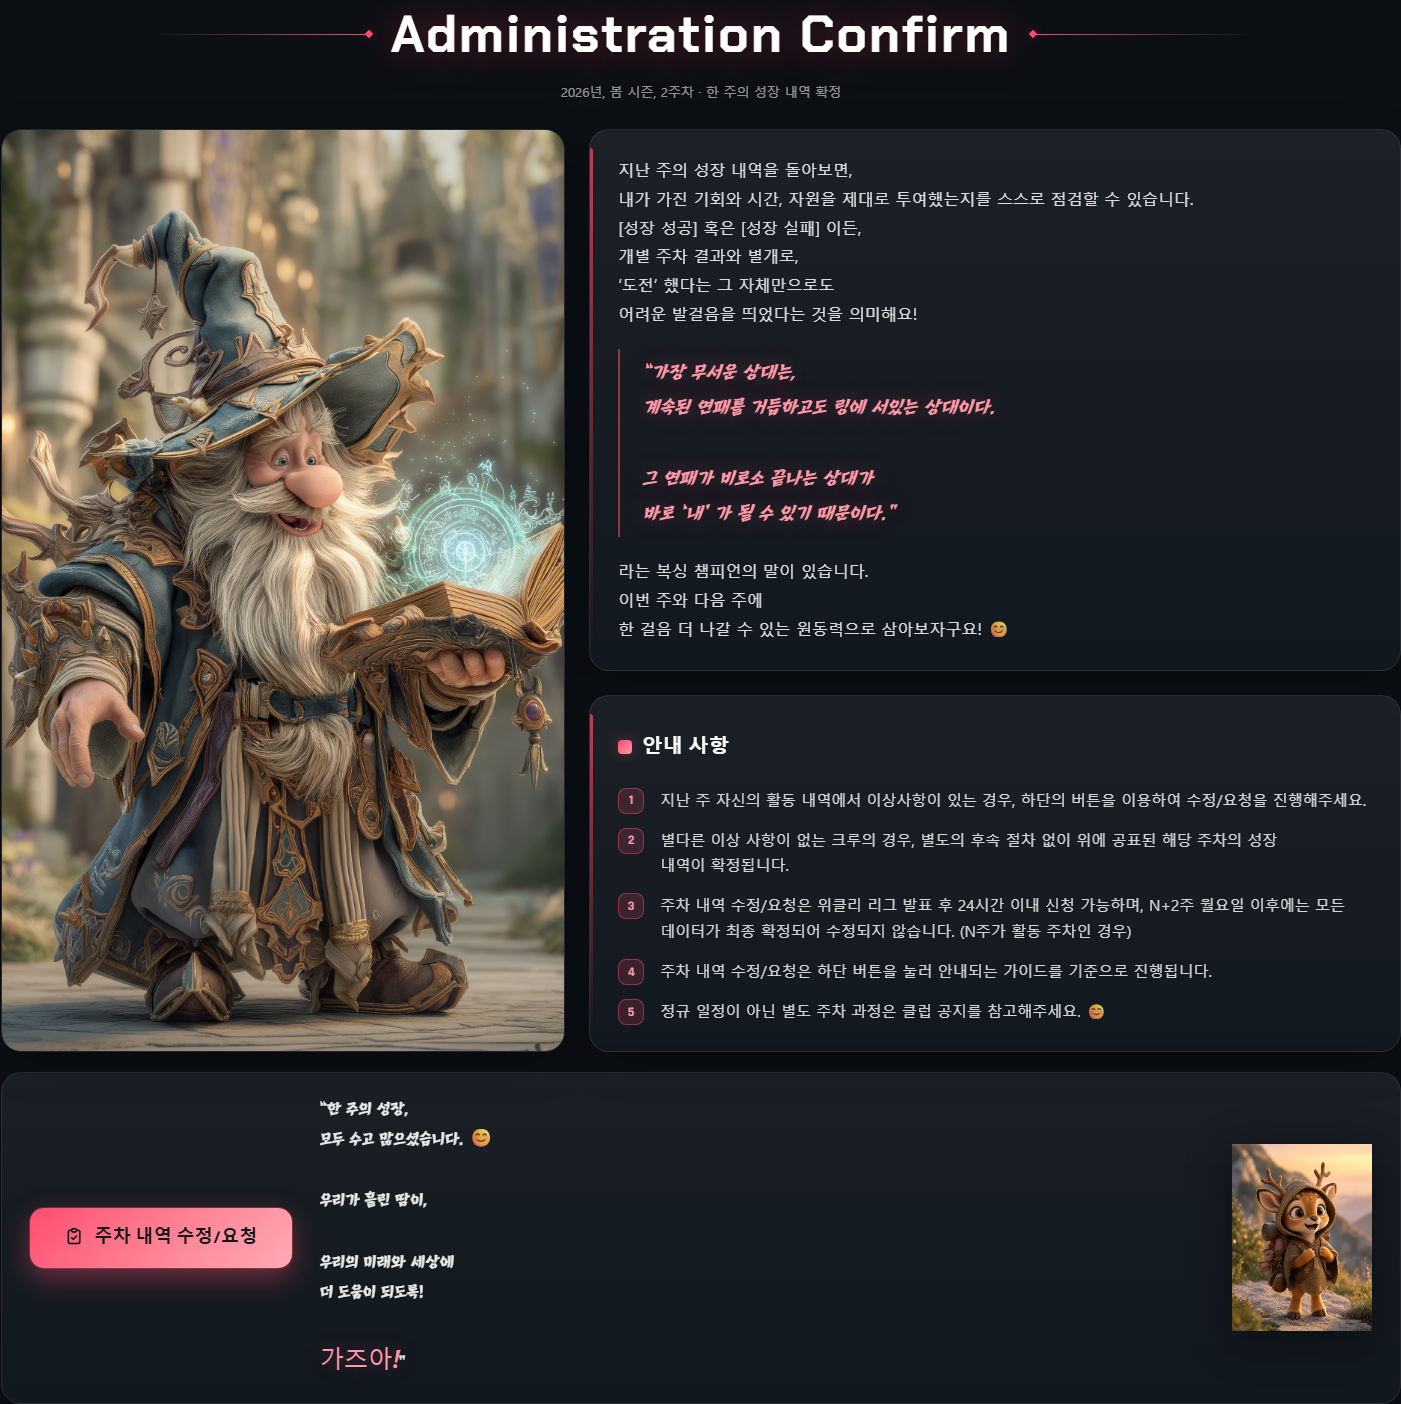
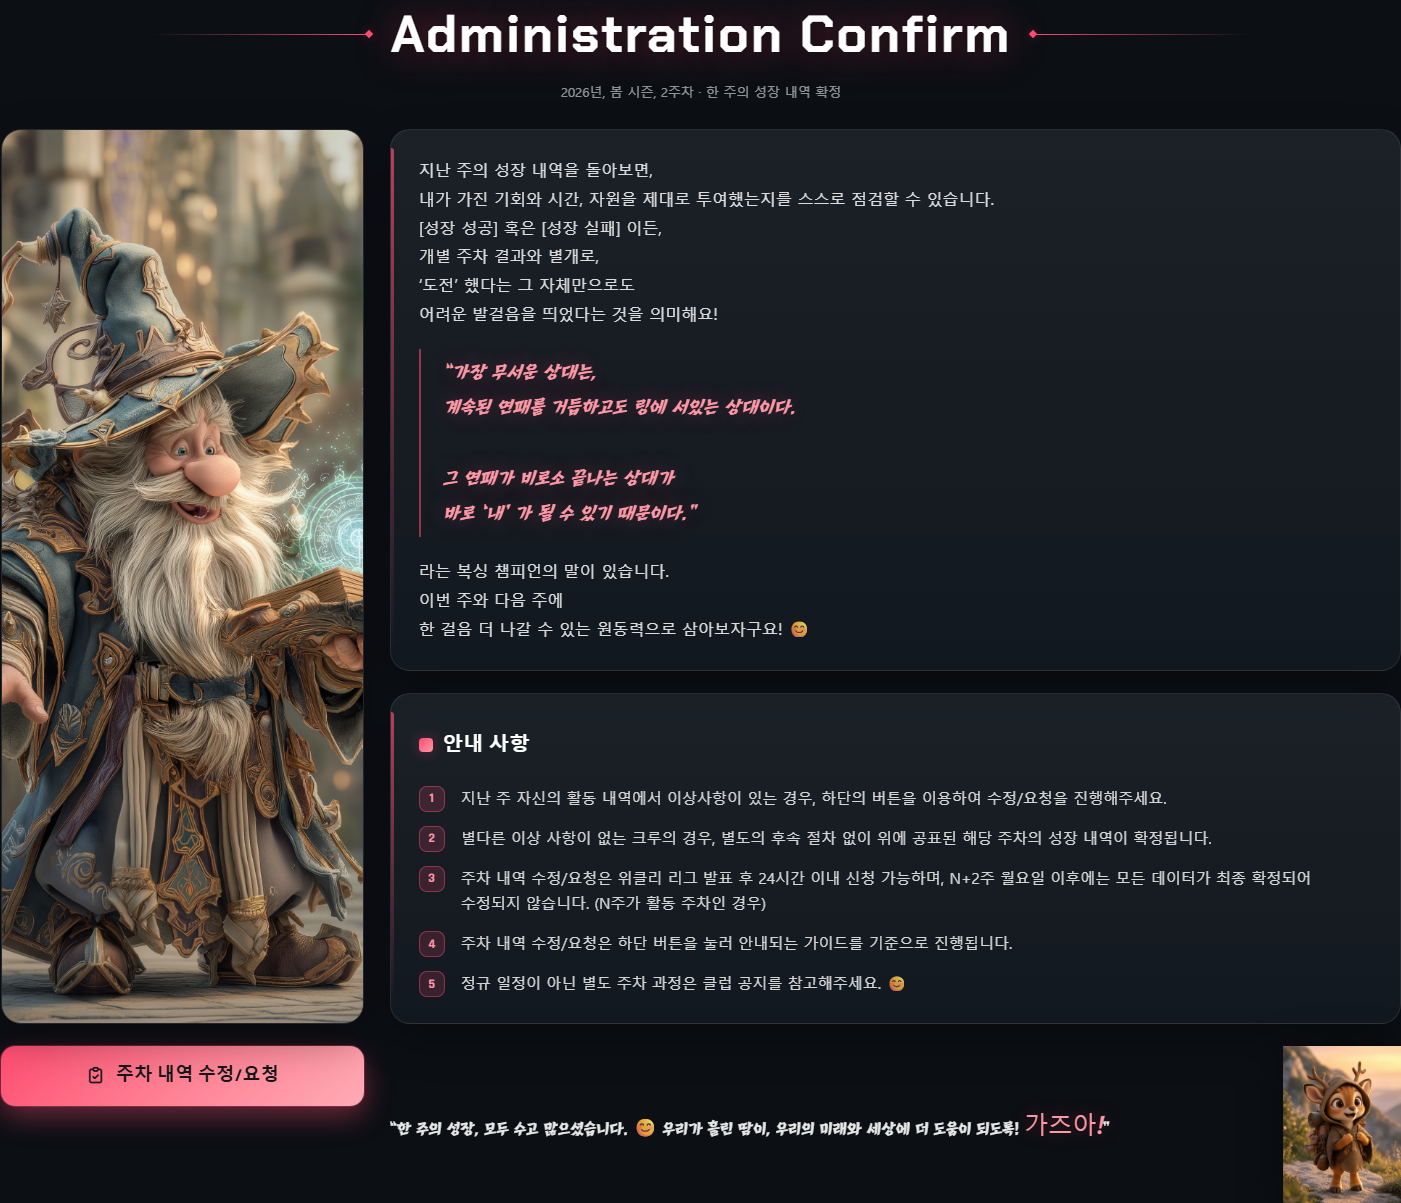
fix(weekly-detail): Administration Confirm 그리드를 레퍼런스 배치로 재구성
첨부 레퍼런스에 맞춰 요소 배치(그리드)를 정정. 색/장식은 기존 유지.
- 단일 grid-template-areas 로 통합: image(rows1-2 span) / message(r1) / notice(r2)
  / button(r3 좌) / closing(r3 우). 별도 __footer·__cards 래퍼 제거.
- 좌측 좁은 컬럼(≈26%): 이미지 + 그 아래 CTA(이미지 폭 채움) = 하나의 세로 컬럼.
- 우측 넓은 컬럼(≈74%): 안내 메시지(상) + 안내 사항(하).
- 이미지 높이 = 우측 두 카드 총높이(rows1-2 stretch) → 균형(실측 diff 0).
- 하단행: [버튼] ── [응원 문구(한 줄로 흐름)] ── [org 캐릭터 맨 우측].
- 반응형: ≤1024 1열 스택(image→message→notice→button→closing), ≤640 마무리 세로.

검증(브라우저): 좌:우=26.4:73.6%, 이미지높이=카드총높이(diff 0), 버튼 이미지 아래
동일 좌컬럼·이미지폭, 마무리행 버튼→문구→캐릭터(우측끝) 정렬 ✓. PC/Tablet/Mobile 정상,
org 캐릭터 전환 유지, 콘솔/컴파일 에러 0.

diff --git a/components/weekly-ranking/WeeklyDetailContent.tsx b/components/weekly-ranking/WeeklyDetailContent.tsx
@@ -1216,66 +1216,63 @@ export default function WeeklyDetailContent({ weekId, org }: WeeklyDetailContent
         </header>
         <p className="wd-ac__subtitle">{card.seasonName} · 한 주의 성장 내역 확정</p>
 
+        {/* 본문 그리드 — 좌: 이미지(rows 1-2 span)+버튼(row3) / 우: 메시지(row1)·안내(row2)·마무리(row3).
+            좌측 이미지 높이 = 우측 두 카드 전체 높이(rows 1-2 stretch)로 균형. */}
         <div className="wd-ac__grid">
-          {/* [1] 좌측 대형 이미지(더미) — object-fit: cover */}
+          {/* [1] 좌측 대형 이미지(더미) — object-fit: cover, rows 1-2 span */}
           <figure className="wd-ac__figure">
             <img className="wd-ac__img" src="/images/0/weekly-wizard.png" alt="한 주의 성장을 지켜보는 마법사" />
           </figure>
 
-          {/* 우측 — [2] 안내 메시지 · [3] 안내 사항 */}
-          <div className="wd-ac__cards">
-            {/* [2] 안내 메시지 */}
-            <div className="wd-ac__card wd-ac__card--message">
-              <p className="wd-ac__msg">
-                {"지난 주의 성장 내역을 돌아보면,\n내가 가진 기회와 시간, 자원을 제대로 투여했는지를 스스로 점검할 수 있습니다."}
-              </p>
-              <p className="wd-ac__msg">
-                {"[성장 성공] 혹은 [성장 실패] 이든,\n개별 주차 결과와 별개로,\n‘도전’ 했다는 그 자체만으로도\n어려운 발걸음을 띄었다는 것을 의미해요!"}
-              </p>
-              <blockquote className="wd-ac__quote">
-                {"“가장 무서운 상대는,\n계속된 연패를 거듭하고도 링에 서있는 상대이다.\n\n그 연패가 비로소 끝나는 상대가\n바로 ‘내’ 가 될 수 있기 때문이다.”"}
-              </blockquote>
-              <p className="wd-ac__msg">라는 복싱 챔피언의 말이 있습니다.</p>
-              <p className="wd-ac__msg">
-                {"이번 주와 다음 주에\n한 걸음 더 나갈 수 있는 원동력으로 삼아보자구요! 😊"}
-              </p>
-            </div>
-
-            {/* [3] 안내 사항 */}
-            <div className="wd-ac__card wd-ac__card--notice">
-              <h3 className="wd-ac__card-title">안내 사항</h3>
-              <ol className="wd-ac__notice-list">
-                <li className="wd-ac__notice-item">
-                  지난 주 자신의 활동 내역에서 이상사항이 있는 경우, 하단의 버튼을 이용하여 수정/요청을 진행해주세요.
-                </li>
-                <li className="wd-ac__notice-item">
-                  별다른 이상 사항이 없는 크루의 경우, 별도의 후속 절차 없이 위에 공표된 해당 주차의 성장 내역이 확정됩니다.
-                </li>
-                <li className="wd-ac__notice-item">
-                  주차 내역 수정/요청은 위클리 리그 발표 후 24시간 이내 신청 가능하며, N+2주 월요일 이후에는 모든 데이터가 최종 확정되어 수정되지 않습니다. (N주가 활동 주차인 경우)
-                </li>
-                <li className="wd-ac__notice-item">
-                  주차 내역 수정/요청은 하단 버튼을 눌러 안내되는 가이드를 기준으로 진행됩니다.
-                </li>
-                <li className="wd-ac__notice-item">
-                  정규 일정이 아닌 별도 주차 과정은 클럽 공지를 참고해주세요. 😊
-                </li>
-              </ol>
-            </div>
+          {/* [2] 안내 메시지(우측 상단) */}
+          <div className="wd-ac__card wd-ac__card--message">
+            <p className="wd-ac__msg">
+              {"지난 주의 성장 내역을 돌아보면,\n내가 가진 기회와 시간, 자원을 제대로 투여했는지를 스스로 점검할 수 있습니다."}
+            </p>
+            <p className="wd-ac__msg">
+              {"[성장 성공] 혹은 [성장 실패] 이든,\n개별 주차 결과와 별개로,\n‘도전’ 했다는 그 자체만으로도\n어려운 발걸음을 띄었다는 것을 의미해요!"}
+            </p>
+            <blockquote className="wd-ac__quote">
+              {"“가장 무서운 상대는,\n계속된 연패를 거듭하고도 링에 서있는 상대이다.\n\n그 연패가 비로소 끝나는 상대가\n바로 ‘내’ 가 될 수 있기 때문이다.”"}
+            </blockquote>
+            <p className="wd-ac__msg">라는 복싱 챔피언의 말이 있습니다.</p>
+            <p className="wd-ac__msg">
+              {"이번 주와 다음 주에\n한 걸음 더 나갈 수 있는 원동력으로 삼아보자구요! 😊"}
+            </p>
           </div>
-        </div>
 
-        {/* [4] CTA + [5] 마지막 멘트 + 우측 org 캐릭터 */}
-        <div className="wd-ac__footer">
-          {/* [4] 주차 내역 수정/요청 — 현재 임시 링크(추후 URL 연결 예정) */}
+          {/* [3] 안내 사항(우측 하단) */}
+          <div className="wd-ac__card wd-ac__card--notice">
+            <h3 className="wd-ac__card-title">안내 사항</h3>
+            <ol className="wd-ac__notice-list">
+              <li className="wd-ac__notice-item">
+                지난 주 자신의 활동 내역에서 이상사항이 있는 경우, 하단의 버튼을 이용하여 수정/요청을 진행해주세요.
+              </li>
+              <li className="wd-ac__notice-item">
+                별다른 이상 사항이 없는 크루의 경우, 별도의 후속 절차 없이 위에 공표된 해당 주차의 성장 내역이 확정됩니다.
+              </li>
+              <li className="wd-ac__notice-item">
+                주차 내역 수정/요청은 위클리 리그 발표 후 24시간 이내 신청 가능하며, N+2주 월요일 이후에는 모든 데이터가 최종 확정되어 수정되지 않습니다. (N주가 활동 주차인 경우)
+              </li>
+              <li className="wd-ac__notice-item">
+                주차 내역 수정/요청은 하단 버튼을 눌러 안내되는 가이드를 기준으로 진행됩니다.
+              </li>
+              <li className="wd-ac__notice-item">
+                정규 일정이 아닌 별도 주차 과정은 클럽 공지를 참고해주세요. 😊
+              </li>
+            </ol>
+          </div>
+
+          {/* [4] CTA — 좌측 이미지 바로 아래(같은 컬럼). 현재 임시 링크(추후 URL 연결 예정) */}
           <a className="wd-ac__cta" href="#" aria-label="주차 내역 수정/요청">
             <i className="ti ti-clipboard-check" aria-hidden="true" />
             주차 내역 수정/요청
           </a>
-          {/* [5] 마지막 멘트 + org 대표 캐릭터(자동 변경) */}
+
+          {/* [5] 마지막 멘트(길게) + 맨 우측 org 대표 캐릭터(자동 변경) — 버튼 오른쪽 한 줄 */}
           <div className="wd-ac__closing">
             <p className="wd-ac__closing-text">
-              {"“한 주의 성장,\n모두 수고 많으셨습니다. 😊\n\n우리가 흘린 땀이,\n\n우리의 미래와 세상에\n더 도움이 되도록!\n\n"}
+              {"“한 주의 성장, 모두 수고 많으셨습니다. 😊  우리가 흘린 땀이, 우리의 미래와 세상에 더 도움이 되도록! "}
               <em>가즈아!</em>
               {"”"}
             </p>

diff --git a/app/(host)/assets/scss/components/_weekly-detail.scss b/app/(host)/assets/scss/components/_weekly-detail.scss
@@ -2811,19 +2811,27 @@
       color: rgba(255, 255, 255, 0.55);
     }
 
-    /* 본문 — 좌(이미지) / 우(안내 카드 2종) */
+    /* 본문 — 좁은 좌(이미지 rows1-2 + 버튼 row3) / 넓은 우(메시지·안내·마무리).
+       이미지가 rows 1-2 를 span → 좌측 이미지 높이 = 우측 두 카드 전체 높이(균형).
+       row3 = 버튼(좌) + 마무리 문구·캐릭터(우). 첨부 레퍼런스 그리드 준수. */
     &__grid {
       display: grid;
-      grid-template-columns: minmax(0, 0.82fr) minmax(0, 1.18fr);
-      gap: 24px;
+      grid-template-columns: minmax(240px, 0.52fr) minmax(0, 1.45fr);
+      grid-template-areas:
+        "image   message"
+        "image   notice"
+        "button  closing";
+      grid-template-rows: auto auto auto;
+      gap: 22px 26px;
       align-items: stretch;
     }
 
-    /* [1] 좌측 대형 이미지 */
+    /* [1] 좌측 대형 이미지 — rows 1-2 span, 우측 카드 총높이에 맞춰 stretch */
     &__figure {
+      grid-area: image;
       position: relative;
       margin: 0;
-      min-height: 440px;
+      min-height: 360px;
       border-radius: 20px;
       overflow: hidden;
       border: 1px solid rgba(255, 255, 255, 0.1);
@@ -2844,16 +2852,10 @@
       display: block;
     }
 
-    &__cards {
-      display: flex;
-      flex-direction: column;
-      gap: 24px;
-      min-width: 0;
-    }
-
     /* [2][3] Glass Card 공통 — wd-glass 레시피 */
     &__card {
       position: relative;
+      min-width: 0;
       padding: 26px 28px;
       border-radius: 20px;
       background:
@@ -2882,6 +2884,8 @@
         opacity: 0.7;
       }
     }
+    &__card--message { grid-area: message; }
+    &__card--notice { grid-area: notice; }
     &__card-title {
       display: flex;
       align-items: center;
@@ -2977,30 +2981,15 @@
       }
     }
 
-    /* [4][5] 하단 — CTA + 마지막 멘트 + org 캐릭터 */
-    &__footer {
+    /* [4] CTA — 좌측 이미지 바로 아래(row3, image 컬럼 폭 채움). 큰 accent-fill 버튼(프리미엄) */
+    &__cta {
+      grid-area: button;
+      align-self: start;
       display: flex;
       align-items: center;
-      gap: 28px;
-      flex-wrap: wrap;
-      padding: 22px 28px;
-      border-radius: 20px;
-      background:
-        linear-gradient(180deg, rgba(255, 255, 255, 0.055), rgba(255, 255, 255, 0.02)),
-        rgba(14, 23, 32, 0.5);
-      border: 1px solid rgba(255, 255, 255, 0.08);
-      backdrop-filter: blur(12px);
-      -webkit-backdrop-filter: blur(12px);
-      box-shadow: 0 16px 40px rgba(0, 0, 0, 0.3);
-    }
-
-    /* [4] CTA — 큰 accent-fill 버튼(프리미엄) */
-    &__cta {
-      flex-shrink: 0;
-      display: inline-flex;
-      align-items: center;
+      justify-content: center;
       gap: 10px;
-      padding: 18px 34px;
+      padding: 18px 28px;
       border-radius: 14px;
       background: linear-gradient(135deg, var(--wd-accent), color-mix(in srgb, var(--wd-accent-soft) 82%, #fff));
       color: #14181c;
@@ -3024,21 +3013,23 @@
       &:active { transform: translateY(0); }
     }
 
-    /* [5] 마지막 멘트 + 캐릭터 */
+    /* [5] 마지막 멘트(길게) + 맨 우측 캐릭터 — row3 우측, 버튼 오른쪽 한 줄 */
     &__closing {
-      flex: 1 1 340px;
+      grid-area: closing;
+      align-self: center;
       display: flex;
       align-items: center;
       justify-content: space-between;
-      gap: 20px;
+      gap: 22px;
       min-width: 0;
     }
     &__closing-text {
       margin: 0;
-      white-space: pre-line;
+      flex: 1 1 auto;
+      min-width: 0;
       font-family: var(--wd-font-subhead);
-      font-size: clamp(15px, 1.55vw, 18px);
-      line-height: 1.7;
+      font-size: clamp(15px, 1.5vw, 18px);
+      line-height: 1.65;
       color: rgba(255, 255, 255, 0.9);
       word-break: keep-all;
       overflow-wrap: break-word;
@@ -3052,7 +3043,7 @@
     }
     &__mascot {
       flex-shrink: 0;
-      width: clamp(96px, 12vw, 140px);
+      width: clamp(88px, 9vw, 118px);
       height: auto;
       object-fit: contain;
       filter: drop-shadow(0 8px 22px rgba(0, 0, 0, 0.45));
@@ -3182,15 +3173,23 @@
 
 /* [6] Administration Confirm — 반응형(Tablet 1열 스택 → Mobile 세로 정리) */
 @media (max-width: 1024px) {
-  .weekly-detail-page .wd-ac__grid { grid-template-columns: 1fr; }
-  .weekly-detail-page .wd-ac__figure { min-height: 300px; max-height: 500px; }
+  /* 1열 세로 스택: 이미지 → 메시지 → 안내 → 버튼 → 마무리 */
+  .weekly-detail-page .wd-ac__grid {
+    grid-template-columns: 1fr;
+    grid-template-areas:
+      "image"
+      "message"
+      "notice"
+      "button"
+      "closing";
+  }
+  .weekly-detail-page .wd-ac__figure { min-height: 300px; max-height: 520px; }
+  .weekly-detail-page .wd-ac__cta { justify-self: stretch; }
 }
 @media (max-width: 900px) {
   .weekly-detail-page .wd-ac__deco { max-width: 90px; }
 }
 @media (max-width: 640px) {
-  .weekly-detail-page .wd-ac__footer { flex-direction: column; align-items: stretch; gap: 20px; }
-  .weekly-detail-page .wd-ac__cta { justify-content: center; }
   .weekly-detail-page .wd-ac__closing {
     flex-direction: column;
     align-items: center;
